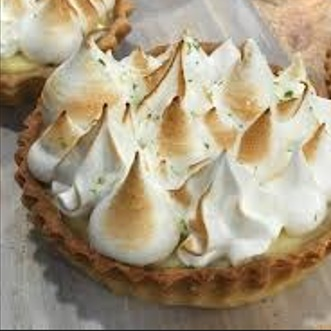
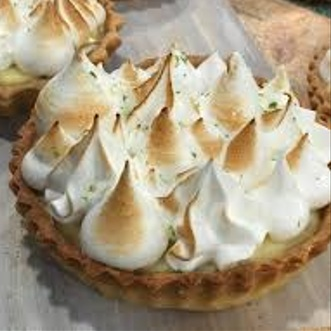
Actualización de productos

diff --git a/index.html b/index.html
@@ -24,15 +24,13 @@
         </header>
 
         <main>
-            <!-- Sección de video de fondo - posicionamiento-->
+            <!-- Sección de video de fondo -->
             <section id="inicio" class="portada">
                 <video autoplay muted loop playsinline class="video-fondo">
                     <source src="video/giphy_tarro_galletas.mp4" type="video/mp4">
                 </video>
                 
                 <div class="portada-texto">
-                    <!-- <h1>Haru's</h1> -->
-                    <!-- <h2>CAKES & BAKES</h2> -->
                     <img src="img/IMG_marca.PNG" alt="Haru's - Cakes & Bakes" class="marca-img">
                     <h3>♥ Las cosas buenas vienen en forma de algo rico ♥</h3>
                 </div>
@@ -91,8 +89,8 @@
                         <p>Cookie M&M</p>
                     </div>
                     <div class="caja-producto">
-                        <img src="img/4-big cookie kinder.jpg" alt="Big Cookie Kinder">
-                        <p>Big Cookie Kinder</p>
+                        <img src="img/4-cookie kinder bueno.jpg" alt="Cookie Kinder">
+                        <p>Cookie Kinder</p>
                     </div>
                     <div class="caja-producto">
                         <img src="img/5-browkie.jpg" alt="BroKie">
@@ -142,7 +140,7 @@
             <!-- Formulario de fidelización -->
             <section id="contacto" class="seccion-padding">
                 <h1>Unite al Club de Haru's 🍪</h1>
-                <h2>Recibí regalos en tu cumple y promos exclusivas por mail</h2>
+                <h2>Recibí regalos en tu cumple y promos exclusivas</h2>
                 <form action="https://formspree.io/f/meenznpv" method="POST" class="formulario-flex">
                     <input type="text" name="nombre" id="nombre" minlength="3" placeholder=" Tu Nombre" required>
                     <input type="email" name="email" id="email" placeholder=" Tu E-mail" required>
